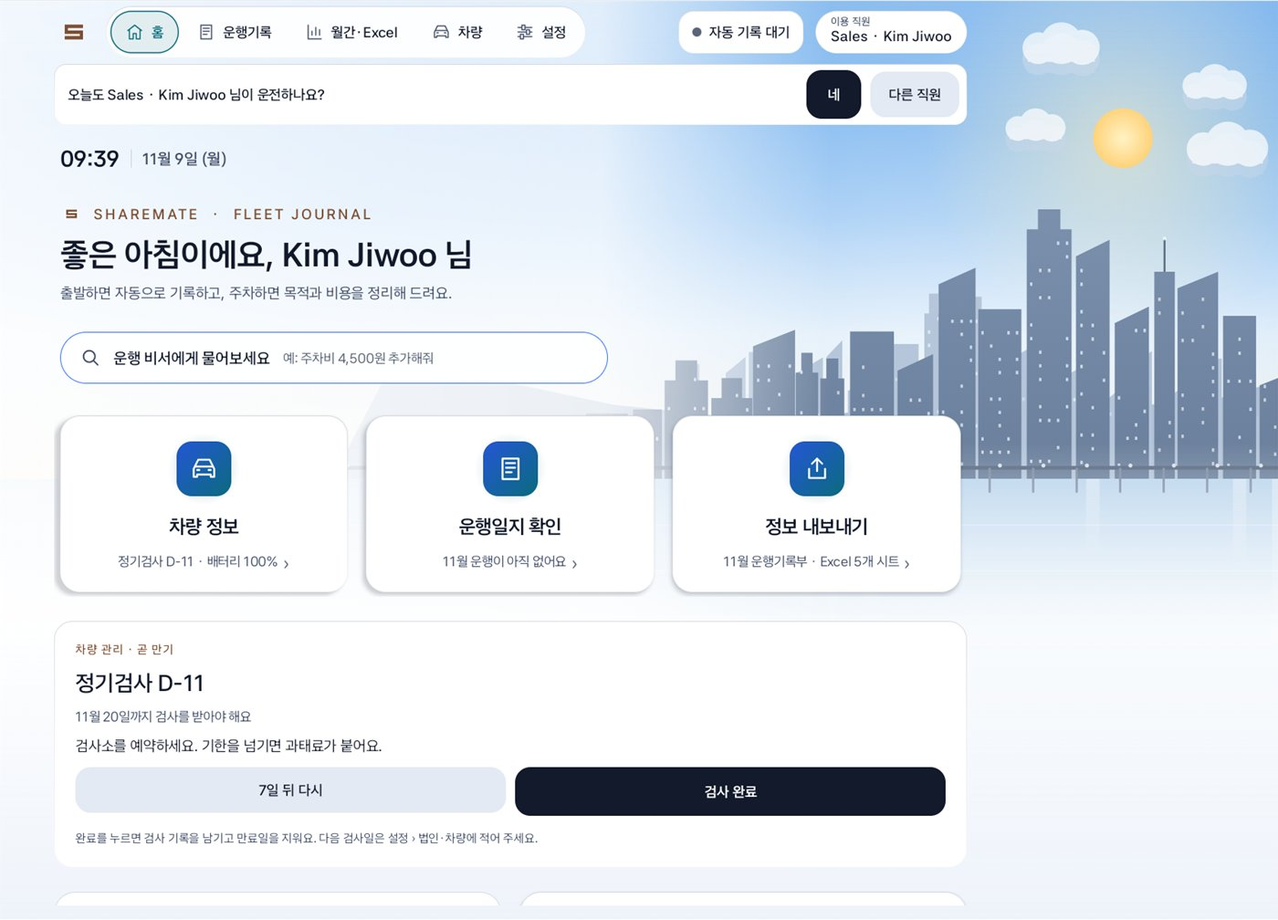
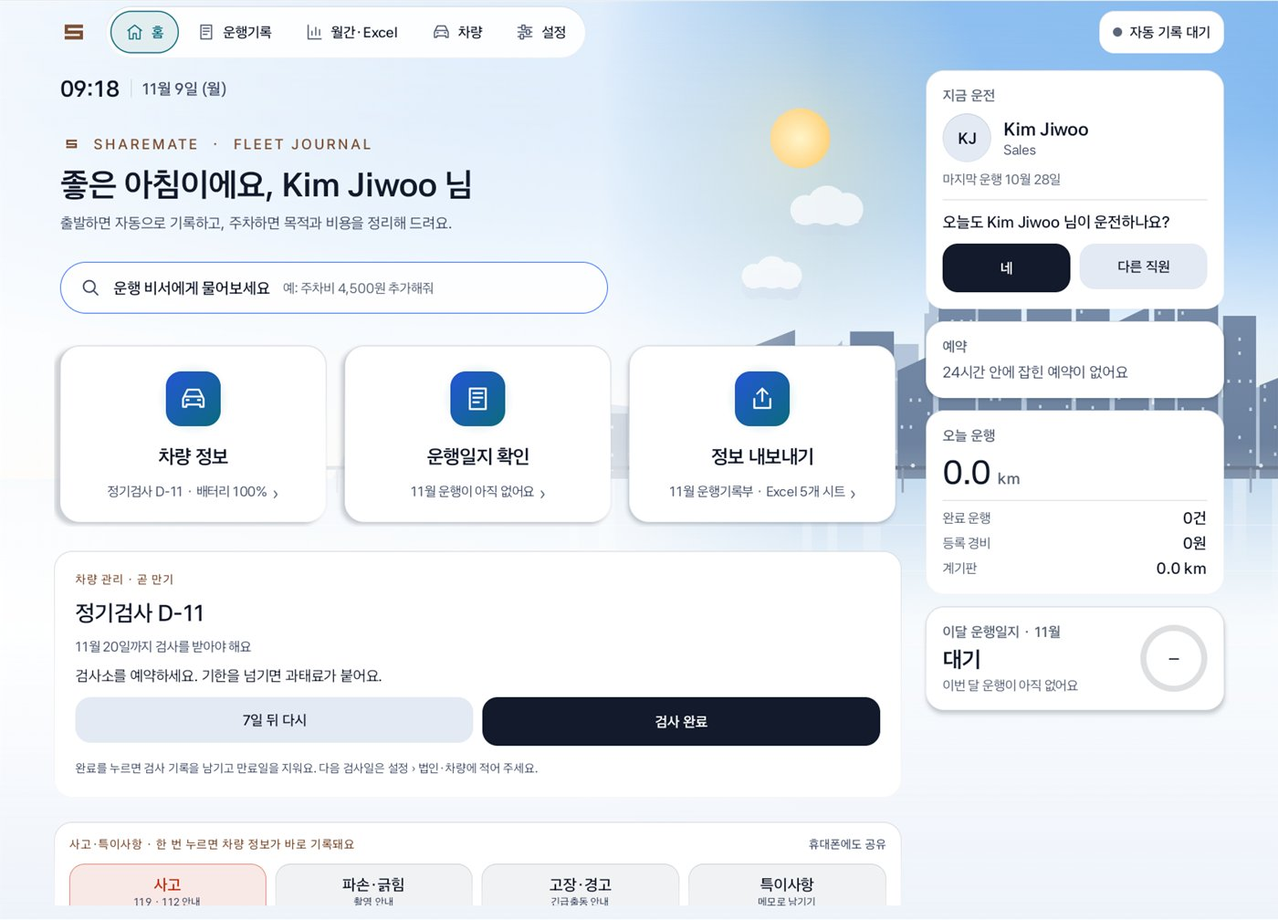
2.11.0: the car uses the whole window with a 지금 column; driver management redone; README re-shot
The car rail now fills the window. From EXPANDED up it splits into the page column and a
392-dp 지금 column (지금 운전 card with today's question, 예약, 오늘 운행, 이달 운행일지) that
stays still while pages change. The sun or moon rests in the sky right of the greeting
above the cards and fades before a card reaches it; there is no orb without the column.
운행기록, 월간·Excel, 차량 and 설정 reflow across the page column (two cards per row in 설정).

Driver management: one avatar (initials) everywhere, the 지금 운전 card, a two-column picker
with one-tap switching and undo, 설정 › 직원 as a list with an editor, deletion only for
people without trips (checked on unfiltered data) with an in-place undo, and a booking now
switches the driver once so a manual pick sticks. The tightest narrow header keeps the
driver's initials instead of a pill of ellipses (driverChipMode).

Version 2.11.0 (versionCode 21; Gleo schema.json matches). 393 unit tests pass, lint 0
errors / 15 warnings. Designed by a three-proposal judge panel, built as two parallel
packages, reviewed from three angles (4 confirmed findings fixed). Checked on the Pleos
emulator: full window day and night, picker pick/undo, 설정 › 직원 edit/delete/undo, the
narrow window, 1.3x font, animator 0.

README: car table now four rows of two with the driver picker and 설정 › 직원, alt texts,
the full-width layout and the 운전하는 직원 bullet; the car demo GIF re-recorded.
CORPORATE_LOGBOOK gains the 2.11.0 section and record; the design spec lines are updated.

diff --git a/app/src/main/java/ai/sharemate/app/LogbookUi.kt b/app/src/main/java/ai/sharemate/app/LogbookUi.kt
@@ -448,7 +448,26 @@ fun LogbookApp(driving: DrivingUiState, requestPermissions: () -> Unit) {
  * ‘지금 운전’ still fits beside them. Narrower, the chip is the text pill of 2.10, 20 dp in: its label ellipsises, then its
  * caption, and the header keeps its one 68-dp row instead of wrapping the caption or squeezing the avatar into an oval.
  */
-internal fun driverChipAvatar(chipMax: Dp, fontScale: Float): Boolean = chipMax >= 74.dp + 66.dp * fontScale.coerceAtLeast(1f)
+internal fun driverChipAvatar(chipMax: Dp, fontScale: Float): Boolean = driverChipMode(chipMax, fontScale) == DriverChipMode.AVATAR_AND_NAME
+
+/** The three ways the header's driver chip draws itself, widest first ([driverChipMode]). */
+internal enum class DriverChipMode { AVATAR_AND_NAME, NAME, AVATAR }
+
+/**
+ * How the header's driver chip draws itself in [chipMax]: the avatar beside ‘지금 운전’ and the name where both fit (74 dp of
+ * avatar and padding plus 66 dp of text at 1×, the text growing with the font); the text pill alone (40 dp of padding plus
+ * the text); and in the tightest header (운행기록 or 월간·Excel in a narrow window, where the assistant button joins the row)
+ * the avatar alone in a 56-dp pill. A pill of ellipses would say nothing; the person's initials still say who is driving,
+ * and the chip keeps its target and its spoken name.
+ */
+internal fun driverChipMode(chipMax: Dp, fontScale: Float): DriverChipMode {
+    val text = 66.dp * fontScale.coerceAtLeast(1f)
+    return when {
+        chipMax >= 74.dp + text -> DriverChipMode.AVATAR_AND_NAME
+        chipMax >= 40.dp + text -> DriverChipMode.NAME
+        else -> DriverChipMode.AVATAR
+    }
+}
 
 /**
  * The header of every page, spanning the rail: the brand mark and the five tabs with their counts at the start; at the rail's
@@ -466,19 +485,21 @@ internal fun driverChipAvatar(chipMax: Dp, fontScale: Float): Boolean = chipMax 
         val interaction = remember { MutableInteractionSource() }
         if (showDriver) Surface(onClick = onDriver, shape = RoundedCornerShape(50), color = Scene.glass, border = Scene.edge, interactionSource = interaction,
             modifier = modifier.heightIn(min = 56.dp).pressable(interaction, .98f).semantics { contentDescription = "지금 운전 ${driver?.label ?: "미선택"}, 바꾸기" }) {
-            // The person's avatar (the one the picker and 설정 › 직원 show) sits 12 dp in, concentric with the pill's round end,
-            // where the header leaves the chip room for it ([driverChipAvatar]). The pill's 56-dp minimum still reaches the row.
+            // The person's avatar (the one the picker and 설정 › 직원 show) sits 12 dp in, concentric with the pill's round end;
+            // the chip keeps what the header leaves it ([driverChipMode]). The pill's 56-dp minimum still reaches the row.
             BoxWithConstraints(propagateMinConstraints = true) {
-                val avatar = driverChipAvatar(maxWidth, LocalDensity.current.fontScale)
-                Row(Modifier.padding(start = if (avatar) 12.dp else 20.dp, end = 20.dp, top = 6.dp, bottom = 6.dp), verticalAlignment = Alignment.CenterVertically,
-                    horizontalArrangement = Arrangement.spacedBy(10.dp)) {
-                    if (avatar) DriverAvatar(driver, 32.dp)
+                val mode = driverChipMode(maxWidth, LocalDensity.current.fontScale)
+                if (mode == DriverChipMode.AVATAR) Box(Modifier.padding(12.dp), contentAlignment = Alignment.Center) { DriverAvatar(driver, 32.dp) }
+                else Row(Modifier.padding(start = if (mode == DriverChipMode.AVATAR_AND_NAME) 12.dp else 20.dp, end = 20.dp, top = 6.dp, bottom = 6.dp),
+                    verticalAlignment = Alignment.CenterVertically, horizontalArrangement = Arrangement.spacedBy(10.dp)) {
+                    if (mode == DriverChipMode.AVATAR_AND_NAME) DriverAvatar(driver, 32.dp)
                     Column {
-                        // One line each: in the tightest header the caption ellipsises too, rather than wrapping and growing the row.
+                        // One line each: in a tight header the caption ellipsises too, rather than wrapping and growing the row. The
+                        // name alone (the department is in the spoken label and in the picker): it is what tells the drivers apart.
                         Text("지금 운전", style = MaterialTheme.typography.labelSmall, color = Scene.textSecondary, maxLines = 1, softWrap = false,
                             overflow = TextOverflow.Ellipsis)
-                        Text(driver?.label ?: "직원 선택", style = MaterialTheme.typography.labelLarge, color = Scene.text, maxLines = 1, overflow = TextOverflow.Ellipsis,
-                            modifier = Modifier.widthIn(max = if (wide) 230.dp else 140.dp))
+                        Text(driver?.let { it.name.ifBlank { it.label } } ?: "직원 선택", style = MaterialTheme.typography.labelLarge, color = Scene.text, maxLines = 1,
+                            overflow = TextOverflow.Ellipsis, modifier = Modifier.widthIn(max = if (wide) 230.dp else 140.dp))
                     }
                 }
             }

diff --git a/app/src/test/java/ai/sharemate/app/LogbookUiTest.kt b/app/src/test/java/ai/sharemate/app/LogbookUiTest.kt
@@ -226,4 +226,14 @@ class LogbookUiTest {
         assertTrue("작은 글꼴은 1배로 셈", driverChipAvatar(140.dp, .85f))
         assertTrue("너비 제한 없음", driverChipAvatar(Dp.Infinity, 1f))
     }
+
+    @Test fun theTightestHeaderKeepsTheDriversInitialsInsteadOfEllipses() {
+        assertEquals(DriverChipMode.AVATAR_AND_NAME, driverChipMode(140.dp, 1f))
+        assertEquals("글자 66 + 여백 40", DriverChipMode.NAME, driverChipMode(106.dp, 1f))
+        assertEquals(DriverChipMode.NAME, driverChipMode(139.dp, 1f))
+        assertEquals("말줄임표만 남을 폭에서는 이니셜", DriverChipMode.AVATAR, driverChipMode(105.dp, 1f))
+        assertEquals("좁은 운행기록 헤더(약 58 dp)", DriverChipMode.AVATAR, driverChipMode(58.dp, 1f))
+        assertEquals("1.3배 글꼴은 글자에 더 필요", DriverChipMode.AVATAR, driverChipMode(120.dp, 1.3f))
+        assertEquals(DriverChipMode.NAME, driverChipMode(126.dp, 1.3f))
+    }
 }

diff --git a/CORPORATE_LOGBOOK.md b/CORPORATE_LOGBOOK.md
@@ -1,3 +1,72 @@
+# SHAREMATE 2.11.0 — 법인차 자동 운행일지
+
+2026-11-09 기준, versionCode 21. 2.11.0은 차량 화면이 창의 폭을 끝까지 쓰고, 운전하는 직원을 한 번에 바꿀 수 있게 한 버전입니다. 2.10은 Pleos 전체 창에서 내용을 1200 dp 열에 두고 오른쪽 408 dp를 하늘로 남겼습니다. 2.11에서는 그 자리에 **지금 열**이 서서 누가 운전하는지, 다음 예약, 오늘 운행, 이달 운행일지를 주차 중 다섯 화면 어디서나 보여 주고, 해와 달은 인사말 오른쪽의 히어로 하늘로 옮겼습니다. 직원 관리는 아바타 하나, 한 번 눌러 바꾸고 실행 취소로 되돌리는 선택 창, 목록과 수정 칸을 나란히 둔 설정 › 직원으로 다시 만들었습니다. 휴대폰 화면과 운행일지 데이터 형식은 2.10.0과 같습니다. 바뀐 설계 기준은 [docs/design/DESIGN_2_10_SPEC.md](docs/design/DESIGN_2_10_SPEC.md)에 ‘(2.11)’로 표시했습니다.
+
+## 2.11 넓은 화면과 지금 열
+
+- **레일:** 차량 화면의 내용 폭 상한을 없앴습니다. 2.10은 EXPANDED와 FULL에서 내용을 1200 dp에서 멈췄고, 2.11에서는 모든 폭 등급에서 머리줄과 페이지가 양옆 여백 사이를 끝까지 씁니다(`carLayout`). 여백(COMPACT 20 · MEDIUM 32 · EXPANDED 48 · FULL 72 dp), 카드와 구간 간격, 인사말의 읽기 폭 720 dp는 그대로입니다. 여백은 이렇게 레이아웃 안에 남깁니다.
+- **페이지 열과 지금 열(`carColumns`):** EXPANDED 이상이고 높이가 600 dp 이상인 창에서 레일을 둘로 나눕니다. 지금 열의 폭은 392 dp에 글꼴 배율(1–1.3배까지)을 곱한 값이고, 페이지 열과는 구간 간격만큼 떨어집니다. 페이지 열의 실효 폭(폭 ÷ 글꼴 배율)이 780 dp 이상일 때만 나눕니다. 페이지 · 간격 · 지금 열은 Pleos 전체 창(1680 dp)에서 1112 · 32 · 392 dp, 1400 dp 창에서 832 · 32 · 392 dp입니다. 1.3배 글꼴의 전체 창은 EXPANDED(레일 1584 dp)가 되어 1046 · 28 · 510 dp입니다. 1배 글꼴의 EXPANDED는 1296 dp부터 나뉩니다. 그보다 좁은 창, MEDIUM과 COMPACT, 높이 600 dp 미만의 창, 1.5배 글꼴의 전체 창(나누면 페이지 1046 dp, 실효 697 dp)에서는 지금 열 없이 페이지가 레일 전체를 씁니다.
+- **지금 열:** 머리줄처럼 페이지 전환 바깥에 있어, 다섯 화면을 오가도 미끄러지지 않고 셸과 함께 나타납니다(차례로 떠오르지 않음). 위에서부터 지금 운전 카드(아래 ‘2.11 운전하는 직원’), 예약, 오늘 운행, 이달 운행일지 타일이 16 dp 간격으로 놓입니다. 열은 따로 스크롤되고 위 가장자리는 페이지처럼 흐려지며, TalkBack은 페이지 다음에 이 열을 읽습니다. 타일은 모서리 24 dp, 안쪽 여백 22 dp에 홈 카드와 같은 유리(낮에는 불투명)를 쓰고, 누를 수 있는 타일에만 낮 그림자와 .98 누름이 붙습니다.
+- **타일:** 예약 타일은 사용 중인 예약이나 24시간 안에 시작할 다음 예약을 한 줄로 보여 줍니다. 사용 중이거나 15분 안에 시작하면 점이 청록, 그 밖에는 브랜드색이고, 예약이 없으면 ‘24시간 안에 잡힌 예약이 없어요’라고 합니다. 누르면 예약 목록이 있는 차량 화면으로 갑니다. 오늘 운행 타일은 오늘 거리(기록 중에는 제자리에서 바뀜)와 완료 운행 · 등록 경비 · 계기판을 세로로 쌓고, 누를 수 없습니다. 이달 운행일지 · 11월 타일은 대기 · 완성 · 마감됨 · 확인 N건 같은 한 단어, 업무 비율 · 거리 · 건수, 자동 분류 · 카드 반영 줄, 88 dp 완성률 링을 두고, 누르면 이달의 월간·Excel을 엽니다. 지금 열이 있으면 홈의 ‘다음 예약’ 줄과 아래 위젯 둘은 페이지에서 빠집니다(`homePlan`의 `widgetsInColumn`).
+- **머리줄:** 레일 전체에 걸치고, 화면이 바뀌어도 나타나거나 사라지지 않습니다. 왼쪽에 표식과 다섯 탭, 레일 끝(지금 열이 있으면 그 위)에 낮은 창의 시계, 기록 상태, 도구가 붙습니다. 지금 운전 칩(2.10의 ‘이용 직원’)은 지금 열이 없을 때만 나오고, TalkBack은 ‘지금 운전 Sales · Kim Jiwoo, 바꾸기’처럼 읽습니다. 칩은 자리가 있으면 32 dp 아바타와 ‘지금 운전’ · 이름을 보여 주고, 좁으면 글자만 보여 줍니다. 가장 좁은 머리줄(좁은 창의 운행기록처럼 운행 비서 버튼이 같은 줄에 들어올 때)에서는 이니셜 아바타만 남습니다(`driverChipMode`). 칩의 글자가 두 줄로 접혀 머리줄을 키우는 일은 없습니다. 지금 열이 없을 때는 오늘의 운전자 질문도 머리줄 아래 한 줄로 나옵니다(40 dp 아바타, 네 · 다른 직원).
+- **셸:** 다섯 화면은 페이지 열 안에서 바뀌고, 지금 열은 그대로 있습니다. 하단 알림 막대는 페이지 열 가운데에 떠서 지금 열을 가리지 않고, 월간·Excel에서는 저장 막대 위로 올라갑니다. 설정의 하위 구간은 셸이 기억합니다. 그래서 ‘설정에서 입력’은 설정 › 정산·세무를, 선택 창의 ‘직원 추가·관리’와 지금 운전 카드의 ‘직원 추가’는 설정 › 직원을 열고, 머리줄의 설정 탭은 마지막 구간으로 돌아갑니다. 주행 중에는 2.10처럼 주행 화면이 창 전체를 씁니다.
+- **운행기록:** 페이지 열의 실효 폭이 900 dp 이상이면 목록과 운행 상세를 나란히 둡니다. 목록 폭은 (페이지 − 간격) × .48로, 전체 창에서 목록 522 · 간격 24 · 상세 566 dp입니다(`logListWidth`, 2.10은 전체 창에서 목록 560 dp). 1.3배 글꼴(실효 805 dp)과 1400 dp 창(832 dp)에서는 목록이 페이지를 채우고 상세는 옆 시트로 열립니다.
+- **월간·Excel:** 마감 카드, Excel 미리보기와 시트 탭, 저장 막대가 페이지 열을 채웁니다(2.10은 760 dp까지). 넓은 창에서는 시트의 열이 더 많이 보이고, 마감 카드의 문장은 읽기 폭을 지킵니다. 검토 화면은 증빙 준비 상태와 비용 참고를 EXPANDED부터 나란히 둡니다.
+- **차량:** 페이지 열의 실효 폭이 1000 dp 이상이면 두 열입니다. 전체 창에서는 차량 카드 666 · 정보 422 dp, 그 아래 카드 2 × 544 dp입니다. 1.3배 글꼴과 1400 dp 창에서는 한 열로 쌓입니다(`vehiclePaneLayout`). 차량 정보의 ‘현재 직원’은 ‘지금 운전’이 되었습니다.
+- **설정:** 하위 탭은 법인·차량 · 직원(2.10의 ‘사용자’) · 정산·세무 · 기록입니다. EXPANDED 이상에서 페이지 열의 실효 폭이 760 dp 이상이면 카드를 두 장씩 놓습니다(전체 창 2 × 544 dp, 1.3배 글꼴에서도 두 장, `settingsCardColumns`). 법인·차량은 기본 정보 옆에 차량 관리 기한, 정산·세무는 정산·세무 기준 옆에 이달 유류비 정산, 기록은 화면 분위기와 기록 방식·개인정보 옆에 자동 완성, 운행 비서, SDK 안내를 둡니다. 두 장일 때 카드 안의 입력 칸은 한 열입니다. 직원은 페이지 전체를 씁니다. 그보다 좁은 창은 2.10처럼 720 dp 폼 열 하나입니다.
+
+## 2.11 해와 달
+
+- **히어로의 빈 하늘:** 차량 홈의 해와 달은 히어로가 비워 둔 하늘에 뜹니다. 인사말 읽기 폭(720 dp)의 오른쪽, 카드 줄 위, 페이지 열 안의 띠로, 인사말과 히어로 끝, 카드 줄에서 24 dp씩 떨어져 있습니다(`heroBand`). 띠는 위치가 아니라 히어로와 카드 줄의 크기로만 계산해, 처음 나타날 때의 떠오름이나 페이지 전환이 띠를 옮기지 않습니다. 2.10의 자리(1200 dp 열 오른쪽 빈 하늘, `freeSkyOrbAt`)는 없앴습니다.
+- **놓이는 자리:** 해와 달은 띠의 가운데와, 원반이 히어로 안개 끝에 닿는 자리 중 더 오른쪽에 놓입니다. 높이는 창 높이의 .15(가장 높은 탑 위)이고, 띠가 그보다 낮게 시작하면 띠를 따릅니다. 원반과 24 dp 여백은 늘 띠 안에 있습니다(`heroOrbAt`). 띠가 원반을 담지 못하면 그리지 않습니다. 페이지 열이 832 dp인 1400 dp 창이 그렇습니다.
+- **카드 밑에 들어가지 않음:** 해와 달은 카드 줄 위에만 있습니다. 홈을 스크롤해 카드가 올라오면, 카드가 원반 아래 12 dp에 닿기 전에 선형으로 옅어져 사라집니다(`heroSkyAlpha`). 그래서 카드 뒤로 비치거나 카드 위에 떠 보이지 않습니다. 스크롤 값은 하늘을 그릴 때만 읽어, 스크롤이 셸을 다시 구성하지 않습니다.
+- **움직이지 않음:** 지금 열이 있으면 페이지 위쪽이 고정되므로 해와 달도 제자리에 있습니다. 다른 화면으로 가면 하늘과 함께 옅어질 뿐 따라 움직이지 않습니다. 다시 잰 띠가 원반을 담지 못하면 마지막 자리에서 220 ms 동안 사라지고(애니메이션 축소에서는 바로), 미끄러지지 않습니다.
+- **구름은 해를 가리지 않음:** 낮 구름 세 개(`HeroClouds`)는 띠의 왼쪽 위에서 탑 높이 단위로 잰 자리에 고정되어, 띠가 커지면 다음 구름이 드러날 뿐 있던 구름은 움직이지 않습니다. 띠 안에 온전히 들고, 히어로 안개가 끝나기 120 dp 전부터 오른쪽에 있고, 해의 원반에서 12 dp보다 멀리 떨어진 구름만 그립니다(`visibleDayClouds`). 전체 창에서는 해 아래에 두 개가 보입니다. 구름도 해와 함께 스크롤로 옅어지고, 해가 없으면 구름도 없습니다.
+- **지금 열이 없으면 해와 달도 없음:** 해와 달은 지금 열이 있을 때만 그립니다. 그때만 페이지 위쪽이 고정되기 때문입니다. 좁은 창, 높이 600 dp 미만의 창, 큰 글꼴로 열이 빠진 창에서는 해와 달 없이 하늘빛으로 낮과 밤을 보여 줍니다. 휴대폰의 해와 달은 2.10 그대로입니다.
+- **밤의 왼쪽 가림막:** 밤에 인사말 뒤를 어둡게 하는 가림막이 낮의 흰 안개와 같은 곳에서 끝납니다. 왼쪽 끝 .92, 히어로 열 끝(여백 + 720 dp) .62, 그 300 dp 뒤 0입니다(2.10은 창 폭의 .38에서 .62, .74에서 0). 인사말 뒤는 2.10보다 옅어지지 않고, 띠에 뜬 달은 거의 가리지 않습니다(전체 창의 달 자리에서 약 .07, 2.10 곡선으로는 약 .19). 낮 안개는 그대로입니다.
+
+## 2.11 운전하는 직원
+
+- **말:** 사람은 ‘직원’, 역할은 ‘운전’과 ‘운전자’입니다. ‘사용자’는 운행기록부 ④ 사용자 칸과 그 칸을 가리키는 곳(운행 상세, 점검 항목, 월 마감 단계, Excel)에만 남깁니다. 머리줄 칩과 차량 정보는 ‘지금 운전’, 설정의 하위 탭은 ‘직원’, 홈의 목적 카드와 사고 카드는 ‘운전자’라고 씁니다.
+- **아바타:** 한 사람은 어디서나 같은 아바타 하나로 보입니다. 레일 색 원 안의 굵은 이니셜입니다. 한글 이름은 마지막 두 글자(김서연 → 서연, 남궁민수 → 민수), 그 밖의 이름은 앞 두 단어의 머리글자(Kim Jiwoo → KJ), 빈 이름은 –입니다(`driverMonogram`). 글자가 원에 넘치면 작게 줄입니다. 장식이라 TalkBack은 건너뛰고, 둘러싼 카드나 줄이 이름을 읽어 줍니다. 크기는 지금 운전 카드 64, 선택 창 56, 설정 › 직원 목록 48(수정 칸 56), 좁은 창의 질문 줄 40, 머리줄 칩 32 dp입니다.
+- **지금 운전 카드:** 지금 열 맨 위에서 누가 운전하는지 보여 줍니다. 평소에는 ‘지금 운전’, 아바타 64 · 이름 · 부서 · [바꾸기], 그리고 ‘오늘 확인함 · 마지막 운행 어제 18:47’ 같은 상태 줄입니다. 오늘의 질문이 필요하면 구분선 아래 ‘오늘도 Kim Jiwoo 님이 운전하나요?’와 반씩 나눈 [네] · [다른 직원]이 나오고, 바꾸기는 비킵니다. 질문은 직원이 2명 이상이고, 출발 전 운전자 확인이 켜져 있고, 운행을 기록 중이 아니고, 오늘 아직 답하지 않았고, 그 직원이 8시간 안에 운전하지 않았을 때 나옵니다. 네는 오늘을 답한 날로 남기고, 다른 직원은 오늘을 남긴 뒤 선택 창을 엽니다. 답한 질문은 200 ms에 접히고(애니메이션 축소에서는 바로) 상태 줄에 ‘오늘 확인함’이 붙습니다. 좁은 창의 질문 줄과 답한 날을 함께 씁니다. 고른 사람이 없으면 ‘누가 운전하나요?’와 [운전자 선택], 직원이 없으면 ‘등록된 직원이 없어요’와 [직원 추가](설정 › 직원)입니다. TalkBack은 사람과 상태를 ‘지금 운전, Kim Jiwoo, Sales, 오늘 확인함, 마지막 운행 어제 18:47’ 한 번으로 읽습니다.
+- **선택 창:** 바꾸기, 다른 직원, 좁은 창의 머리줄 칩에서 열면 지금 운전하는 직원을 고르고, 운행 상세·홈 목적 카드의 변경이나 점검 목록의 ‘사용자 지정’에서 열면 그 운행의 운전자를 고릅니다. 제목은 ‘지금 운전하는 직원’(‘새 운행부터 적용돼요.’, 기록 중에는 ‘새 운행과 기록 중인 운행에 바로 반영돼요.’)이나 ‘이 운행을 운전한 직원’(그 운행의 날짜·시각·거리와 ‘운행기록부 ④ 사용자 칸이 바뀌고 수정 이력에 남아요.’)입니다. 직원 카드는 두 열(1.3배 글꼴이나 폭 700 dp 남짓보다 좁은 창에서는 한 열)이고, 아바타 56, 이름, 부서, 상태 줄을 담습니다. 상태 줄은 ‘예약 사용 중 · 17:00까지’, ‘곧 예약 · 14:00부터’, ‘다음 예약 · 내일 09:00’, 마지막 운행, ‘운행 기록 없음’ 가운데 앞에 오는 하나입니다. 순서는 이름의 한국어 정렬, 그다음 부서이고, 고른 사람이 맨 위로 올라가지 않습니다. 고른 카드는 선택 채움, 1.5 dp 테두리, 청록 이름과 ✓로 표시합니다. 낮에는 나머지 카드를 흰 유리로 두어 상태 줄이 AA 대비를 넘습니다. 한 번 누르면 바로 정해지고 창이 닫히며, 같은 사람을 누르면 닫히기만 합니다. 직원이 아홉 명 이상이면 ‘이름이나 부서로 찾기’ 칸이 나옵니다. 목록은 창 높이의 60 %까지, 제목·찾기 칸·안내·버튼이 쓰고 남은 높이에서 스크롤하고, 고른 카드가 보이게 열립니다. 아래에는 [직원 추가·관리](설정 › 직원)와 [닫기]가 있습니다. 창은 페이드로만 나타나고 사라집니다(160 / 120 ms, 애니메이션 축소에서는 움직임 없음).
+- **설정 › 직원:** 카드 폭이 960 dp 이상이면 목록 옆에, 좁으면 목록 아래에 수정 칸이 있습니다. 목록은 ‘등록된 직원 N명’과 ‘최대 50명’, 72 dp 줄(아바타 48, 이름, ‘Sales · 운행 9건 · 마지막 운행 10월 28일’, 지금 운전하는 사람의 ‘지금 운전’ 칩)입니다. 줄을 누르면 그 사람이 수정 칸에 열립니다(선택 채움과 테두리, TalkBack ‘수정 중’). 목록 아래에는 [새 직원](50명이면 꺼지고 이유를 보여 줌)과, 설정 › 기록에서 옮겨 온 ‘출발 전 운전자 확인’ 스위치가 있습니다. 새 직원은 부서(예: 영업1팀)와 성명(예: 김서연)을 30자까지 받고, 성명이 있으면 [직원 추가]가 켜집니다. 같은 부서에 같은 이름이 있으면 경고만 하고 막지 않습니다. 등록된 직원의 수정 칸에는 [지금 운전하는 직원으로](이미 그렇다면 ‘지금 운전하는 직원이에요’), 부서·성명 칸과 ‘고친 부서와 성명은 이 직원의 지난 운행 ④ 사용자 칸에도 그대로 들어가요.’ 안내, [수정 저장] · [취소]가 있습니다.
+- **삭제와 실행 취소:** [직원 삭제]는 시연과 실제 기록을 합쳐 운행이 한 건도 없는 사람(기록 중인 운행 포함)에게만 보입니다. 저장소가 삭제 전에 확인하는 것과 같은, 거르지 않은 데이터로 판단하므로 거절될 삭제는 내놓지 않습니다(`driverRemovable`). 운행이 있으면 ‘운행 기록이 있어 삭제할 수 없어요 · 부서와 성명은 고칠 수 있어요’라고 합니다. 삭제 뒤에는 ‘Lee Minho 님을 삭제했어요 · 실행 취소’가 뜨고, 실행 취소는 그 사람을 같은 id로 목록의 같은 자리에 되돌립니다. 지금 운전하던 사람이고 그사이 아무도 고르지 않았다면 다시 지금 운전하는 직원이 됩니다(`restoreDriver`).
+- **예약은 한 번만 바꿈:** 예약 시작 15분 전부터 주차 중이면 예약한 직원이 지금 운전하는 직원이 됩니다. 2.10까지는 주차 중 신호가 올 때마다 다시 바꿔, 직접 고른 운전자가 몇 초 만에 되돌려졌습니다. 2.11에서는 예약 하나에 한 번만 바꿉니다(`bookingDriverSwitch`). 그 예약 동안 직접 고른 운전자는 그대로 남고, 다음 예약은 다시 한 번 바꿉니다. 운행을 기록 중이거나, 예약한 직원이 이미 지금 운전하는 직원이거나, 등록되지 않은 직원이면 바꾸지 않습니다. 적용한 예약은 메모리에만 기억해, 앱을 다시 시작하면 진행 중인 예약이 한 번 더 적용됩니다. 지금 운전하는 직원이 예약한 직원과 다르면 예약 줄의 ‘운전자를 예약한 직원으로 맞췄어요’도 붙지 않습니다.
+- **문구:** 선택 창은 ‘운전자를 Lee Minho 님으로 바꿨어요 · 실행 취소’, ‘이 운행의 운전자를 Lee Minho 님으로 바꿨어요 · 실행 취소’, 비어 있던 운행에는 ‘이 운행에 Lee Minho 님을 지정했어요’, 처음 고를 때는 ‘지금 운전하는 직원을 Lee Minho 님으로 정했어요’라고 알립니다. 수정 칸의 [지금 운전하는 직원으로]도 같은 문구와 실행 취소를 씁니다. 설정 › 직원은 ‘Lee Minho 님을 추가했어요 · 운전자로 선택’(지금 운전하는 직원이 없어 새 사람이 바로 그 자리에 들어가면 ‘Lee Minho 님을 추가하고 지금 운전하는 직원으로 정했어요’), ‘Kim Jiwoo 님 정보를 고쳤어요 · 실행 취소’라고 알립니다. 선택 창은 셸의 알림 막대 공급자(`LocalFollowUp`) 안으로 옮겨, 그 실행 취소가 셸의 막대에 뜹니다. 저장소의 거절 문구도 ‘직원을 다시 선택해 주세요.’, ‘직원은 50명까지 등록할 수 있어요.’, ‘운행 기록이 있는 직원은 삭제할 수 없어요. 부서와 성명은 고칠 수 있어요.’로 바꿨습니다.
+- **주행 중에는 없음:** 운전자를 바꾸는 데 글자 입력이 필요 없고, 누르는 곳은 56–88 dp입니다. 주행이 시작되면 선택 창은 닫히고, 지금 열과 설정 › 직원은 주행 화면 아래에 구성되지 않습니다.
+
+### 2.11.0 검증 기록
+
+2026-11-09, `gradlew testDebugUnitTest lintDebug assembleDebug` 통과: 단위 테스트 393건 전부 성공, lint 오류 0 · 경고 15(의존성·버전 안내, 2.10과 같은 항목). 2.10의 373건에 20건이 더해졌습니다. 화면 배치와 하늘 5건(SceneTest 레일 나누기 · 해가 카드보다 먼저 사라짐, HomeDashboardTest 히어로의 빈 하늘, LogbookUiTest 운행기록 두 칸 · 설정 카드 두 장), 새 DriverRosterTest 13건(이니셜, 질문 문구, 마지막 운행 표기, 상태 줄, 목록 순서와 예약 상태, 설정 › 직원의 날짜와 선택 창의 운행 줄, 선택 창 열 수, 상태 줄의 AA 대비, 삭제 조건, 같은 이름 경고, 알림 문구, 되돌린 직원의 자리, 예약 한 번 전환), 머리줄 칩 2건(LogbookUiTest)입니다. 해·구름 위치와 밤 가림막을 보는 SceneTest, 차량 화면의 VehiclePaneTest는 새 규칙에 맞게 고쳤습니다.
+
+설계와 구현: 한눈에 보는 대시보드, 장면과의 균형, 운전자 중심이라는 세 가지 설계안을 따로 만들고, 심사자가 채점해 하나의 사양으로 합쳤습니다(대시보드 안이 가장 높은 점수). 구현은 두 묶음으로 나눠 나란히 진행했습니다. 하나는 넓은 레일 · 지금 열 · 하늘 · 다른 화면, 다른 하나는 직원 관리입니다. 두 묶음을 병합한 뒤 지금 열의 운전자 자리에 지금 운전 카드를 넣고, 머리줄 칩에 아바타를 붙여 통합했습니다.
+
+검토와 수정: 세 검토자(실행 동작, 화면·문구·접근성, 테스트)가 16건을 지적했고, 반박 검증에서 확인된 4건을 고쳤습니다.
+
+- **선택 창의 아래 버튼:** 낮은 창에서도 직원 추가·관리와 닫기가 잘리지 않습니다. 목록은 제목·찾기 칸·안내·버튼이 쓰고 남은 높이만 씁니다.
+- **머리줄 칩:** 칩은 ‘지금 운전’ 글자가 두 줄로 접히기 전에 아바타부터 뺍니다. 그래서 지금 열이 없는 EXPANDED 창(화면 밀도 240의 좁은 창 등)에서도 머리줄이 68 dp 한 줄을 지킵니다.
+- **선택 창 카드의 대비:** 낮에 고르지 않은 카드를 흰 유리로 바꿔, 상태 줄이 WCAG AA를 넘습니다(4.47:1 → 5.8:1).
+- **문구:** 홈의 목적 카드와 사고 카드가 ‘사용자’ 대신 ‘운전자’라고 씁니다.
+
+에뮬레이터에서 하나를 더 찾아 고쳤습니다. 가장 좁은 머리줄에서 운전자 칩이 말줄임표만 남기던 것을 그 사람의 이니셜 아바타로 바꿨습니다(`driverChipMode`, LogbookUiTest `theTightestHeaderKeepsTheDriversInitialsInsteadOfEllipses`).
+
+에뮬레이터에서 확인(Pleos 차량 사용자 10, Asia/Seoul. 아침 화면은 에뮬레이터 시간대를 잠시 바꿔 확인):
+
+- **전체 창, 낮(09:18)과 밤(22:20):** 레일이 양옆 여백 사이 창 전체에 걸칩니다. 다섯 화면은 페이지 열에서 바뀌고, 오른쪽 392 dp 지금 열(오늘의 질문이 있는 지금 운전 카드, 예약, 오늘 운행, 링이 있는 이달 운행일지 · 11월)은 화면이 바뀌어도 제자리에 있습니다. 해와 달은 인사말 오른쪽, 카드 위 하늘에 뜨고, 낮에는 구름이 해 가까이 있지만 해를 가리지 않습니다.
+- **선택 창(다른 직원과 바꾸기에서 열기):** 이니셜 아바타·부서·마지막 운행이 담긴 카드가 두 열로 놓이고, 고른 카드에 채움·테두리·✓가 있습니다. 한 번 누르면 바뀌고 ‘운전자를 Lee Minho 님으로 바꿨어요 · 실행 취소’가 뜨며, 실행 취소로 되돌아옵니다. 아래에 직원 추가·관리와 닫기가 있고, 창은 페이드로만 나타나고 사라집니다.
+- **설정 › 직원:** 아바타·운행 건수·마지막 운행과 ‘지금 운전’ 칩이 있는 목록입니다. 줄을 누르면 목록 옆에 수정 칸이 열립니다(지금 운전하는 직원으로 또는 지금 운전하는 직원이에요, 지난 운행의 ④ 칸도 바뀐다는 안내가 붙은 부서·성명 칸, 수정 저장 · 취소). 직원 삭제는 운행이 없는 사람에게만 보이고, 운행이 있으면 ‘운행 기록이 있어 삭제할 수 없어요 · 부서와 성명은 고칠 수 있어요’가 나옵니다. Lee Minho를 삭제하자 ‘Lee Minho 님을 삭제했어요 · 실행 취소’가 떴고, 실행 취소로 같은 자리에 돌아왔습니다. 출발 전 운전자 확인 스위치가 이곳에 있습니다.
+- **설정:** 한 줄에 카드가 두 장입니다(법인·차량: 기본 정보 옆에 차량 관리 기한, 기록: 화면 분위기와 기록 방식·개인정보 옆에 자동 완성, 운행 비서, SDK 안내).
+- **운행기록 · 월간·Excel · 차량:** 운행기록은 페이지 열 안에 목록과 운행 상세가 나란하고, 그 옆에 지금 열이 있습니다. 월간·Excel은 마감 카드와 Excel 미리보기가 페이지 열을 채워 시트의 열이 더 많이 보입니다. 차량은 두 열입니다.
+- **좁은 창(화면 밀도 240):** 지금 열이 없고, 머리줄의 운전자 칩과 아바타가 있는 질문 줄이 돌아옵니다. 운행기록에서는 칩에 이니셜(KJ)만 보입니다.
+- **글꼴 1.3배(전체 창):** 지금 열이 510 dp로 넓어지고, 홈 카드는 2 + 1로 놓입니다.
+- **애니메이션 축소(animator 0):** 선택 창이 움직임 없이 바로 열리고, 월간·Excel의 기간 이동도 바로 바뀝니다.
+
+README의 차량 스크린숏(홈 낮·밤, 운행기록, 월간·Excel, 차량, 설정 › 기록)을 이 빌드에서 다시 찍고, 운전자 선택 창과 설정 › 직원 두 장을 더했습니다. 차량 시연 GIF는 창 전체를 담아 다시 녹화했습니다(밤 홈 → 오늘의 질문에 네 → 바꾸기 → Lee Minho 선택 → 실행 취소 → 월간·Excel에서 2026년 10월 → 설정 › 기록에서 낮 → 낮 홈 → 밤 → 밤 홈). 휴대폰 스크린숏은 그대로입니다.
+
+확인하지 못한 것: 실차 화면, 높이 600 dp 미만의 낮은 창, 새 부분의 TalkBack, 애니메이션 축소에서 질문 줄이 접히는 모습은 확인하지 않았습니다. 다른 직원의 예약이 운전자를 한 번만 바꾸고 그 뒤 직접 고른 운전자가 남는 흐름도 에뮬레이터에서는 확인하지 않았고, 단위 테스트(DriverRosterTest `aBookingSwitchesTheDriverOnceAndAManualPickSticks`)로만 확인했습니다.
+
 # SHAREMATE 2.10.0 — 법인차 자동 운행일지
 
 2026-11-09 기준, versionCode 20. 2.10.0은 같은 구성을 **세 가지 빛**으로 보여 주는 버전입니다. 낮에는 밝은 화면, 해 질 무렵과 밤에는 2.8의 남색 야경을 쓰고, 화면은 가득 채우지 않고 여백을 두며, 누르고 넘기고 바뀌는 모든 순간에 짧은 움직임을 붙였습니다. 창의 비율이 바뀌어도 같은 규칙으로 다시 배치됩니다. 설계 기준은 [docs/design/DESIGN_2_10_SPEC.md](docs/design/DESIGN_2_10_SPEC.md)에 있습니다(세 가지 관점의 제안을 세 심사자가 채점해 하나로 합친 사양).
@@ -16,7 +85,7 @@
 
 ## 2.10 여백과 배치
 
-- **폭 등급:** 차량 COMPACT(760 dp 미만) · MEDIUM · EXPANDED · FULL(1400 dp 이상, Pleos 전체 창). FULL에서는 양옆 여백 72 dp, 내용 폭 최대 1200 dp를 왼쪽에 붙이고 오른쪽 408 dp는 하늘로 남깁니다. 휴대폰은 COMPACT(600 미만) · MEDIUM(가로) · EXPANDED(태블릿)에서 내용을 가운데 두고 600 / 760 dp로 제한합니다. 높이도 SHORT(600 미만) · MEDIUM · TALL로 나눠 낮은 창에서는 히어로를 줄이고 시계를 머리줄로 올립니다. 글꼴 배율 1.3에서는 폭을 배율로 나눠 등급을 정하므로 큰 글꼴이 좁은 배치를 부르지 않습니다(`Layout.kt`).
+- **폭 등급:** 차량 COMPACT(760 dp 미만) · MEDIUM · EXPANDED · FULL(1400 dp 이상, Pleos 전체 창). FULL에서는 양옆 여백 72 dp, 내용 폭 최대 1200 dp를 왼쪽에 붙이고 오른쪽 408 dp는 하늘로 남깁니다. 휴대폰은 COMPACT(600 미만) · MEDIUM(가로) · EXPANDED(태블릿)에서 내용을 가운데 두고 600 / 760 dp로 제한합니다. 높이도 SHORT(600 미만) · MEDIUM · TALL로 나눠 낮은 창에서는 히어로를 줄이고 시계를 머리줄로 올립니다. 글꼴 배율 1.3에서는 폭을 배율로 나눠 등급을 정하므로 큰 글꼴이 좁은 배치를 부르지 않습니다(`Layout.kt`). 차량의 1200 dp 열과 오른쪽 하늘은 2.11에서 지금 열로 바뀌었습니다.
 - **차량 홈:** 인사말 열 720 dp, 세 버튼이 1200 dp 열 안에 24 dp 간격으로, 위젯 둘이 그 아래. 가득 채우지 않습니다. 1.3배 글꼴에서는 버튼이 2 + 1로 접힙니다.
 - **다른 화면:** 운행기록(목록 560 + 상세), 월간·Excel(마감 카드 최대 760), 차량(차량 카드 720 + 정보 열), 설정(폼 최대 720)도 같은 여백과 최대 폭을 따르고, 좁거나 낮은 창에서는 한 열로 접힙니다. 좁은 차량 창에서는 머리줄이 두 줄(로고·탭 / 상태·시계·직원)이 됩니다. 월간·Excel은 한 번에 스크롤되고, Excel 미리보기는 받은 높이에 들어가는 행 수로 페이지를 나눕니다(`previewRowsPerPage`). 휴대폰에서 Excel 시트 탭 다섯 개가 한 줄에 넘치면 폭을 나눠 씁니다.
 - **휴대폰:** 홈 카드 2×2, 가로 모드에서는 왼쪽 80 dp 유리 레일 탭과 인사말 왼쪽 · 카드 오른쪽, 태블릿에서는 카드 넷을 한 줄에, 1.3배 글꼴에서는 한 줄에 하나. 예약·운행·경비·현황과 시트도 같은 간격 체계를 쓰고 600 dp 이상에서는 두 열이나 폭 제한으로 늘어납니다.
@@ -65,7 +134,7 @@
 
 - **월간·Excel 기간 이동:** 이번 달과 올해 두 가지뿐이던 기간을 운행기록과 같은 ‹ 2026년 10월 › 단추로 옮깁니다. 월간·연간을 고르고 달이나 해를 넘기면 마감 카드, 운행 현황·경비·정산·Excel·검토 화면, 기간 줄과 모든 Excel 저장이 같은 기간을 따릅니다. 처음 열 때는 홈 카드·배너·배지와 같은 달(지난달이 열려 있으면 지난달)로 열리고, 아직 오지 않은 달이나 해로는 넘어가지 않습니다. 마감된 달도 마감 해제와 다시 저장이 되고, 1월에는 연간에서 ‹ 한 번으로 지난해 전체 운행기록부를 봅니다. 홈의 마감 카드 ③, 마감 배너, 정보 내보내기, 이달 위젯은 각자 가리키는 달로 엽니다(`goReport`).
 - **빈 기간의 문구:** 운행이 없는 지난 달은 ‘8월 운행 기록이 없어요’와 ‘운행이 없는 달은 마감하지 않아도 돼요’로 말합니다. 검토는 ‘점검할 운행이 없어요’, 비용 참고 카드는 연간 비용을 다시 묻지 않고 ‘2025년 운행 기록이 없어 업무사용비율을 계산할 수 없어요’라고 합니다.
-- **해와 달의 자리:** 차량 홈의 해와 달은 내용 열 오른쪽의 빈 하늘(전체 창에서 408 dp) 가운데, 가장 높은 탑보다 위에 뜹니다. 카드가 스크롤로 지나가도 가리지 않고, 비워 둔 오른쪽에 초점이 하나 생깁니다. 빈 하늘이 없는 좁은 창에서는 해와 달을 그리지 않고 하늘빛으로만 낮과 밤을 보여 줍니다(`freeSkyOrbAt`). 낮 구름은 해의 원반에서 12 dp 이상 떨어진 것만 그려, 구름이 해를 가리지 않습니다.
+- **해와 달의 자리:** 차량 홈의 해와 달은 내용 열 오른쪽의 빈 하늘(전체 창에서 408 dp) 가운데, 가장 높은 탑보다 위에 뜹니다. 카드가 스크롤로 지나가도 가리지 않고, 비워 둔 오른쪽에 초점이 하나 생깁니다. 빈 하늘이 없는 좁은 창에서는 해와 달을 그리지 않고 하늘빛으로만 낮과 밤을 보여 줍니다(`freeSkyOrbAt`). 낮 구름은 해의 원반에서 12 dp 이상 떨어진 것만 그려, 구름이 해를 가리지 않습니다. 이 자리는 2.11에서 인사말 오른쪽의 히어로 하늘로 바뀌었습니다.
 - **스크롤 가장자리:** 차량의 홈, 운행기록 목록, 월간·Excel, 차량, 설정이 스크롤되면 위쪽 32 dp에서 내용이 머리줄 아래로 서서히 사라집니다. 띠는 위로 갈수록 빨리 투명해져 카드 테두리 같은 밝은 선이 남지 않고, 멈춘 화면에는 아무 효과가 없습니다(`fadingTopEdge`).
 
 검증: `gradlew testDebugUnitTest lintDebug assembleDebug` 통과. 단위 테스트 373건 전부 성공(기간 범위·이동·안내 문구·마감 카드·처음 여는 달·파일 이름·빈 기간 문구·빈 하늘 위치·스크롤 띠 테스트 추가), lint 오류 0 · 경고 15. 설계는 세 가지 관점의 안을 심사해 합친 사양으로 정했고, 구현 뒤 세 갈래 검토에서 확인된 4건(비용 카드가 이미 입력한 비용을 다시 묻던 문제, 페이지가 사라지는 동안 기간 상태 저장이 끊기던 문제, 빈틈이 있던 테스트 두 곳)을 고쳤습니다. 마지막 독립 검토에서 확인된 2건도 고쳤습니다. 새 자리의 해 위로 낮 구름 하나가 겹치던 문제와, 스크롤하는 동안 열 가장자리에서 위젯의 낮 그림자가 잘리던 문제입니다. 흐림 띠의 층은 양옆으로 12 dp를 더 잡습니다. 차량 에뮬레이터에서 11월 → 10월(마감됨 · 9건 · Excel 미리보기) → 연간 2026 → 2025, 2025년 검토와 비용 카드, 낮·밤 홈의 해와 달 위치, 좁은 창(화면 밀도 240)에서 해가 빠지는 것, 스크롤 가장자리를 확인했습니다. README의 차량 홈 낮·밤과 월간·Excel 스크린숏, 차량 시연 GIF를 다시 찍었습니다.

diff --git a/docs/design/DESIGN_2_10_SPEC.md b/docs/design/DESIGN_2_10_SPEC.md
@@ -38,11 +38,11 @@ Night accents are never day text (#4CE3F0 1.39, #FFB45C 1.58, #E4BFA6 1.53 vs bg
 
 **Day artwork (`DayPaint`, same `skylineScene()` geometry).**
 - Sky to the horizon: 0 → #4F9BE8, .45 → #8FC1F2, .70 → #D7E9F8, 1.0 → #F3EEE4 (warm haze). Horizon glow → white @ .60 → 0 at (w·.76, horizon), r = w·.52. Stars 0.
-- Sun at `orbAt` — car: the middle of the free sky right of the 1200-dp column at .15 of the height (`freeSkyOrbAt`; left out on a window without free sky, and the day clouds give way to it); phone (.86, .235) as built: disc r = ht·.045, radial #FFF3C4 → #FFD27A rim; halo #FFF1C2 @ .55 → 0, r = ht·.30; no rays, no `orbShade`.
-- Clouds: four groups (built three-oval shape) at x .50–.95, y .06–.20, white @ .70 with an underside copy #C9D8E8 @ .45 offset +.012 h; static; never under the hero column or the sun.
+- Sun at `orbAt` — car (2.11): in the hero band, the sky the hero leaves free right of the 720 reading measure and above the card row, inside the page column, 24 dp clear of the greeting, the hero's end and the cards (`heroBand`, built from sizes so neither the entrance lift nor the page slide moves it); x = the band's middle or the haze end less the disc, whichever is further right, y = .15 of the height or lower where the band starts lower, the disc + 24 dp always inside the band (`heroOrbAt`, ≈ (1053, 181) on the full window). Drawn only while the 지금 column stands, which fixes the page top, and only where the band holds the disc (not on a 1400-dp window, not without the column: there the sky's light alone tells day from night); it fades linearly as the cards scroll up and is gone before they reach it (`heroSkyAlpha`), and a re-measured band that no longer holds it fades it out in place over 220 ms (a snap under reduced motion), never sliding; phone (.86, .235) as built: disc r = ht·.045, radial #FFF3C4 → #FFD27A rim; halo #FFF1C2 @ .55 → 0, r = ht·.30; no rays, no `orbShade`.
+- Clouds (2.11): three groups (built three-oval shape, `HeroClouds`) placed by offset from the hero band's top-left in tower heights, so a growing band reveals the next one and never moves one; each drawn only when wholly inside the band, starting right of the haze end less 120 dp, and more than the disc + 12 dp from the sun (`visibleDayClouds`): two on the full window, below the sun; white @ .70 with an underside copy #C9D8E8 @ .45 offset +.012 h; static; they fade with the sun as the cards come up; no sun, no clouds; the phone draws none.
 - Ridge #AEC1D6; far towers #B5C6DA, windows white @ .55 / #E6EEF7 @ .50; near towers vertical #7B90AC → #6A7F9B (2.2:1 vs the .45 sky stop, so the city stays present), windows #DCEAF7 @ .80 / white @ .60, bloom off; antennas #5B6B82, white @ .80 tips, no red beacons.
 - Water 0 → #B9D4EC, .40 → #D5E6F4, 1 → bg; reflections white @ .35; ripples white @ .30. Bridge deck #5B6B82 (4.69 vs horizon), posts #7F8EA3, lamps #D8E2EE, no lamp reflection.
-- Scrims (`HomeBackdrop`): car hero haze = horizontal white .90 at x = 0 → .76 at the hero column's right edge → 0 at +300 dp; phone home: vertical white .88 → .76 at the greeting's bottom → 0 at +120 dp; phone sign-in (`leftScrim = false` today): add `scrimTop` white .84 → 0 over the top 55 % (#44506A on raw sky is 2.76). Bottom scrim as built. Night scrims unchanged.
+- Scrims (`HomeBackdrop`): car hero haze = horizontal white .90 at x = 0 → .76 at the hero column's right edge → 0 at +300 dp; phone home: vertical white .88 → .76 at the greeting's bottom → 0 at +120 dp; phone sign-in (`leftScrim = false` today): add `scrimTop` white .84 → 0 over the top 55 % (#44506A on raw sky is 2.76). Bottom scrim as built. Night (2.11): the car's lead scrim .92 at x = 0 → .62 at the hero column's right edge → 0 at +300 dp, ending where the day haze does (was .38 → .62, .74 → 0 of the width), so it only grows stronger behind the greeting and dims the moon in the hero band ≈ .07 instead of ≈ .19; the other night scrims unchanged.
 
 **Crossfade rule: fade-through.** Foreground tokens are never lerped — lerped text on lerped bg bottoms out at 1.16, and no single t keeps both polarities ≥ 4.5 on glass and bg together. 800 ms auto / 480 ms on an override tap: content alpha 1 → 0 (0–200, FastOutLinearIn) → `LocalScene`, Material scheme and `PleosColors` swap once at 200 ms → sky `Crossfade(phase)` 200–800 (Linear) while the sun rises 8 % of ht into place, the moon sinks and stars fade in the first 40 % → content alpha 0 → 1 (560–800, LinearOutSlowIn). Reduced motion: instant swap. Deferred until 3 s without touch, no field focused, no sheet open, no page swap running; never while driving.
 
@@ -52,19 +52,19 @@ Class = `widthDp ÷ max(1, fontScale)` (1680 at 1.3× behaves as EXPANDED, so th
 
 | class | width | gutter | content max | alignment | columns · gap |
 |---|---|---|---|---|---|
-| car FULL (new) | ≥ 1400 | 72 | 1200 | left-anchored: column ends at x = 1272; the right 408 dp is sky with nothing interactive | 12 · 24 |
-| car EXPANDED | 1100–1399 | 48 | fill | left | 12 · 20 |
+| car FULL (2.11) | ≥ 1400 | 72 | fill | left-anchored rail, gutter to gutter; at any height but SHORT it splits into the page column and the 지금 column (392 × the font scale, held to 1–1.3×) a section gap apart, while page ÷ font scale ≥ 780 dp (`carColumns`): 1112 · 32 · 392 at 1680, 832 · 32 · 392 at 1400 | 12 · 24 |
+| car EXPANDED (2.11) | 1100–1399 | 48 | fill | left; splits like FULL from 1296 at 1× (page 780, gap 28); the full window at 1.3× is EXPANDED and gives 1046 · 28 · 510; 1100–1295, 1.5× (page 1046 if split, 697 effective) and SHORT keep one rail | 12 · 20 |
 | car MEDIUM | 760–1099 | 32 | fill | left | 8 · 16 |
 | car COMPACT | < 760 | 20 | fill | left | 4 · 12 |
 | phone EXPANDED (tablet) | ≥ 840 | 48 | 760 | centred | 4 cards · 16 |
 | phone MEDIUM (landscape) | 600–839 | 32 | 600 | centred | 2 · 12 |
 | phone COMPACT | < 600 | 20 | fill | — | 2 × 2 · 12 |
 
-- **Car home.** Header 64 inside the column. `DriverConfirmRow` folds into the hero as one line + two 56-dp chips until answered. Hero column 720: clock row → eyebrow → one headline (displaySmall 44, `scaledDisplay`) → one supporting line → search 640 × 68; hero 420–600 tall, min-only at 1.3×. Cards 3 × 368 × 184, gap 24; widgets 2 × 588 (min 150); 다음 예약 becomes the 오늘 운행 widget's third line (no band); incident row = one panel, four 72-dp buttons; "휴대폰에도 공유" moves to 차량. MEDIUM: 96-dp horizontal cards, widgets stack. Short: hero min 300, eyebrow hidden, clock into the header, widgets one 120-dp row with a 44-dp ring. 1.3×: cards 3-across at FULL, 2 + 1 below.
-- **Car 운행기록.** Month stepper + totals + 3-way `Segmented` (max 720) on one 64-dp row; list 560 / detail 616, gap 24; rows 88. MEDIUM and below: full-width list, detail as an 85 %-wide side sheet. Short: rows 64, filters collapse to one 56-dp dropdown chip.
-- **Car 월간·Excel.** The 운행기록 period stepper (64-dp glass arrows around a headlineSmall label that is a heading and a polite live region) and a 월간/연간 segmented: one 64-dp row from EXPANDED up (segmented 320 wide), two rows below (stepper, then the segmented 480 wide); Excel 저장 at the column's right. One shown period drives the close card, the four views, the preview and every Excel save; the pane opens on the month the home's close card points at; month-close card max 760; sheet tabs 56-dp text tabs; preview table scrolls horizontally with a pinned first column; sticky 72-dp save bar inside the column, max 760.
-- **Car 차량.** Car card 720 (drawing 420 tall) + info column 456; below, 2 × 588. MEDIUM: one column, drawing 260; short: drawing hidden, plate and odometer kept.
-- **Car 설정.** Sub-tabs 56-dp text tabs, max 960; forms max 720, left-anchored; two field columns at ≥ EXPANDED, else one (always one at 1.3×); 화면 분위기 first.
+- **Car home (2.11).** The header spans the rail over both columns; its driver chip and the question row under it appear only without the 지금 column. Page column (1112 at FULL): hero column 720: clock row → eyebrow → one headline (displaySmall 44, `scaledDisplay`) → one supporting line → search 640 × 68; hero 420–600 tall, min-only at 1.3×; cards 3 × 349 × 184 across the page, gap 24; then the matched banner, the month-close banner, the task stack, the autopilot strip and the incident row (one panel, four 72-dp buttons). 지금 column (392; 510 at 1.3×): outside the page swap, so it never slides and has no stagger; its own scroll under the faded top edge; read after the page; tiles 16 apart, corner 24, padding 22, on the home glass: 지금 운전 (avatar 64, name over department, 바꾸기, status line; today's question with 네 · 다른 직원 while it is due, folding away in 200 ms) → 예약 (in use or the next within 24 h; tap → 차량) → 오늘 운행 (km in place while recording; 완료 운행 · 등록 경비 · 계기판) → 이달 운행일지 (word, detail, auto line, 88-dp ring; tap → 월간·Excel). With the column the next-booking line and the widgets leave the page. Without it (EXPANDED under 1296 at 1×, MEDIUM, COMPACT, SHORT): the question row under the header (avatar 40, 네 · 다른 직원), the next-booking line under the hero, widgets 2-up from EXPANDED (min 150). MEDIUM: 96-dp horizontal cards, widgets stack. Short: hero min 300, eyebrow hidden, clock into the header, widgets one 120-dp row with a 44-dp ring. 1.3×: cards 2 + 1 (the full window is EXPANDED there, page 1046).
+- **Car 운행기록 (2.11).** Month stepper + totals + 3-way `Segmented` (max 720) on one 64-dp row; the list beside the detail only while the page column ÷ font scale ≥ 900 dp (`logListWidth`): list = (page − gap) × .48, 522 / 566 at FULL, gap 24; rows 88. Otherwise (MEDIUM and below, 1.3×, a 1400-dp window): full-width list, detail as a side sheet (as built: 62 % wide, 94 % at COMPACT). Short: rows 64, filters collapse to one 56-dp dropdown chip.
+- **Car 월간·Excel (2.11).** The 운행기록 period stepper (64-dp glass arrows around a headlineSmall label that is a heading and a polite live region) and a 월간/연간 segmented: one 64-dp row from EXPANDED up (segmented 320 wide), two rows below (stepper, then the segmented 480 wide); Excel 저장 at the column's right. One shown period drives the close card, the four views, the preview and every Excel save; the pane opens on the month the home's close card points at; the month-close card, the sheet tabs (56-dp text tabs), the preview and the sticky 72-dp save bar fill the page column (were max 760), the card's sentences keeping to the reading measure; preview table scrolls horizontally with a pinned first column; 검토 sets 증빙 준비 상태 beside 비용 참고 from EXPANDED up.
+- **Car 차량 (2.11).** Car card beside the info column at 720 : 456 of the page (666 + 422 at FULL, drawing 420 tall); below, 2 × 544; two columns only while page ÷ font scale ≥ 1000 dp (`vehiclePaneLayout`). Otherwise (MEDIUM and below, 1.3×, a 1400-dp window): one column, drawing 260; short: drawing hidden, plate and odometer kept.
+- **Car 설정 (2.11).** Sub-tabs 법인·차량 · 직원 · 정산·세무 · 기록 as 56-dp text tabs, max 960; the shell keeps the section, so 설정에서 입력 lands on 정산·세무, 직원 추가·관리 on 직원, and the header tab returns to the last one. From EXPANDED, while page ÷ font scale ≥ 760 dp (`settingsCardColumns`; still two at 1.3×), cards sit two up (2 × 544 at FULL), each with one field column: the profile beside 차량 관리 기한; 정산·세무 beside this month's settlement at the saved rate; 화면 분위기 + 기록 방식·개인정보 beside 자동 완성 + 운행 비서 + SDK; 직원 takes the page, its list beside the editor from 960 dp and the editor under the list below that. Otherwise forms max 720, left-anchored; two field columns at ≥ EXPANDED, else one (always one at 1.3×). 화면 분위기 first.
 - **Phone home.** Header 56; eyebrow, headlineMedium 24, one line; cards 2 × 2 (min 84), gap 12; one widget row (today km | month ring 52); task card only when a task exists; four 48-dp incident chips; the "차량이 원본이에요" paragraph and the empty "지금 할 일이 없어요" band move to 설정 › 차량 연결. Nav pill 72 + 10 margins, bottom padding 96. Landscape: 40/60 split — hero left, cards + widget right, nav an 80-dp left glass rail. Tablet: cards 4-across. 1.3×: one card per row.
 - **Phone 예약.** The timeline card is the single hero; 48-dp date chips scroll; 새 예약 opens as a 92 % bottom sheet (a 50/50 right pane at ≥ 600) from a free slot or a 56-dp 예약하기 button above the pill; steppers 56, ± 48.
 - **Phone 운행 / 경비 / 현황.** Employee chips 48 (`FlowRow` at 1.3×); each day group one glass panel with 1-dp dividers, rows ≥ 72; 현황 ≤ three cards above the fold, two columns at ≥ 600. Landscape and tablet: list 55 % / detail 45 % instead of a route push.
@@ -77,7 +77,7 @@ Easings: FastOutSlowIn (standard), LinearOutSlowIn (enter), FastOutLinearIn (exi
 | interaction | what moves | ms | easing | reduced-motion | note |
 |---|---|---|---|---|---|
 | Press | scale 1 → .98 car / .97 phone; fill white +6 % (night) / navy 6 % (day) | 90 in / 160 out | LinearOutSlowIn / FastOutSlowIn | fill only | `pressable`; car no ripple, phone bounded M3 ripple |
-| Tab change | lit pill glides (x + width) and tints; page `pageSwap` 24 dp slide + fade | 220 (exit 140, enter delay 40) | FastOutSlowIn | snap | header, nav, sky static |
+| Tab change | lit pill glides (x + width) and tints; page `pageSwap` 24 dp slide + fade | 220 (exit 140, enter delay 40) | FastOutSlowIn | snap | header, nav, sky and the 지금 column static (2.11) |
 | Segmented · filter · 자동/낮/밤 | pill slides; fill + ring | 180 | FastOutSlowIn | snap | `Segmented` |
 | First appearance | `Appear` fade + 10 % lift, stagger 40 | 220; cap 5 items car / 8 phone | FastOutSlowIn | in place | first composition only; never on return or sync |
 | Number update | old and new digits cross-fade + 6 dp lift | 160 | FastOutSlowIn | snap | no count-up (a number is data); widgets, ring label, detail only; never clock or live telemetry |
@@ -103,4 +103,4 @@ Existing `cardSwap`, `SkyLayer` dim, skeleton pulse and `ThinkingDots` stay as b
 6. **Screens**, in order: car home → car panes → phone home → phone tabs → sign-in / onboarding / settings → `VehiclePane` car card off `SharemateTheme(dark = true)` (#0E1522, #1E2C47, #E4BFA6, #C7C9CE → scene tokens) → sweep the 24 remaining literals (card sheens `Color.White.copy(.07)` in `HomeDashboard` / `PhoneMidnight` / `PhoneAuthUi` → `edgeTop`; `PhoneSyncUi.connectedGreen` → positive; `SharemateUi` #DAAF6B / #FFCC80 → warn; `PhoneAuthUi` tile → tile; the Google button's whites stay, brand-mandated).
 7. **Verification.** Day and night screenshots for the README (car home, 운행기록, 월간, 차량, 설정; phone home, 예약, sign-in); 1.3× previews for car home, 운행기록 and phone home; 900-wide and short-window car previews; `set-timezone` on the emulator for the band edges.
 
-**Pitfalls (engineering judge).** HEAD's `SceneTheme` rebuilds `SceneColors`, `ColorScheme` and `PleosColors` every frame for 900 ms and lerps text (1.16 mid-frame): remove it, do not tune it. Without `configChanges="uiMode"` a headlight toggle recreates `MainActivity` and wipes the hysteresis. `animateBounds` only works when the same keyed composable survives the breakpoint flip — one composable per card, layout chosen inside. `pageStates` must survive rotation once the activity stops recreating. Hero clamp min-only at 1.3× or the headline clips. Tabs stay 56 dp inside the 68-dp pill (short header: pill padding 4). The skyline `drawWithCache` never reads the clock. Glass alpha below .88 on day voids the composite ratios. `ScenePrefs` stays out of the synced logbook. The right 408 dp at FULL holds nothing interactive.
+**Pitfalls (engineering judge).** HEAD's `SceneTheme` rebuilds `SceneColors`, `ColorScheme` and `PleosColors` every frame for 900 ms and lerps text (1.16 mid-frame): remove it, do not tune it. Without `configChanges="uiMode"` a headlight toggle recreates `MainActivity` and wipes the hysteresis. `animateBounds` only works when the same keyed composable survives the breakpoint flip — one composable per card, layout chosen inside. `pageStates` must survive rotation once the activity stops recreating. Hero clamp min-only at 1.3× or the headline clips. Tabs stay 56 dp inside the 68-dp pill (short header: pill padding 4). The skyline `drawWithCache` never reads the clock. Glass alpha below .88 on day voids the composite ratios. `ScenePrefs` stays out of the synced logbook. (2.11) The right of the FULL rail is the 지금 column: keep it outside the page swap so it never slides; build the hero band from sizes, never positions, then add the page slot's resting root origin to it and let the sky take off its own (the sky sits inside `safeDrawingPadding`), or the sun moves with the entrance lift or a page change; the sun or moon rests only in that band, never under a card.

diff --git a/README.md b/README.md
@@ -10,7 +10,7 @@ SHAREMATE는 법인 차량을 쓰는 회사의 운전자와 관리자를 위한 
 
 | 차량: 밤에서 낮으로, 그리고 다시 밤으로 | 휴대폰: 로그인 · 처음 설정 · 예약 · 차량 선택 |
 |---|---|
-| <img src="docs/demo/car-day-night.gif" alt="차량 앱 시연: 밤 화면 홈에서 월간·Excel로 가 지난 달인 10월로 넘기고, 설정에서 낮을 고르면 야경이 아침 하늘로 바뀌고, 다시 밤으로 돌아오는 장면" width="560"> | <img src="docs/demo/phone-booking.gif" alt="휴대폰 앱 시연: 시연 계정으로 로그인, 세 단계 처음 설정, 예약 탭에서 빈 시간을 눌러 예약 신청, 차량 칩으로 회사 차량 목록 열기" width="200"> |
+| <img src="docs/demo/car-day-night.gif" alt="차량 앱 시연: 밤 화면 홈에서 오늘의 운전자 질문에 네를 누르고, 바꾸기로 Lee Minho 님을 골랐다가 아래 막대의 실행 취소로 되돌린 뒤, 월간·Excel에서 2026년 10월로 넘기고, 설정 › 기록에서 낮을 고르면 하늘이 아침으로 바뀌고, 낮 홈을 거쳐 다시 밤으로 돌아오는 장면" width="560"> | <img src="docs/demo/phone-booking.gif" alt="휴대폰 앱 시연: 시연 계정으로 로그인, 세 단계 처음 설정, 예약 탭에서 빈 시간을 눌러 예약 신청, 차량 칩으로 회사 차량 목록 열기" width="200"> |
 
 같은 화면이 시간에 따라 두 가지 빛으로 보입니다. 낮에는 밝은 하늘과 흰 유리, 해 질 무렵과 밤에는 남색 야경입니다. 설정에서 자동 · 낮 · 밤을 고를 수 있습니다.
 
@@ -18,11 +18,13 @@ SHAREMATE는 법인 차량을 쓰는 회사의 운전자와 관리자를 위한 
 
 | 홈 · 낮 | 홈 · 밤 |
 |---|---|
-| <img src="docs/screenshots/car-home.jpg" alt="차량 홈(낮): 아침 인사말과 운행 비서 검색창, 차량 정보·운행일지 확인·정보 내보내기 세 버튼, 정기검사 기한 카드, 내용 오른쪽 빈 하늘의 해와 구름" width="560"> | <img src="docs/screenshots/car-home-night.jpg" alt="차량 홈(밤): 같은 구성의 남색 야경과 오른쪽 하늘의 달" width="560"> |
-| **차량** | **운행기록** |
-| <img src="docs/screenshots/car-vehicle.jpg" alt="차량: 차량 카드, 차량 정보, 차량 관리 기한, 다가오는 예약, 사고·특이사항 기록" width="560"> | <img src="docs/screenshots/car-log.jpg" alt="운행기록: 월 이동, 전체·점검 필요·자동 반영 구분, 운행 목록과 운행 상세" width="560"> |
-| **월간·Excel** | **설정** |
-| <img src="docs/screenshots/car-report.jpg" alt="월간·Excel: 기간 이동으로 넘긴 2026년 10월, 마감된 달의 운행·총주행·경비와 마감 해제·Excel 저장, 그 달의 운행기록부 시트 미리보기" width="560"> | <img src="docs/screenshots/car-settings.jpg" alt="설정 › 기록: 화면 분위기(자동·낮·밤), 기록 방식과 개인정보" width="560"> |
+| <img src="docs/screenshots/car-home.jpg" alt="차량 홈(낮): 아침 인사말, 운행 비서 검색창, 차량 정보·운행일지 확인·정보 내보내기 세 카드와 정기검사 기한 카드, 인사말 오른쪽 하늘의 해와 구름, 오른쪽 지금 열의 지금 운전·예약·오늘 운행·이달 운행일지" width="560"> | <img src="docs/screenshots/car-home-night.jpg" alt="차량 홈(밤): 같은 구성의 남색 야경, 인사말 오른쪽 하늘의 달, 지금 운전 카드의 ‘오늘도 Kim Jiwoo 님이 운전하나요?’ 질문과 네·다른 직원 버튼" width="560"> |
+| **운전자 바꾸기** | **설정 › 직원** |
+| <img src="docs/screenshots/car-driver-picker.jpg" alt="운전자 바꾸기: 낮 홈 위에 열린 ‘지금 운전하는 직원’ 창, 이니셜 아바타·부서·마지막 운행을 보여 주는 직원 카드 두 장, 채움·테두리·✓로 표시된 Kim Jiwoo 카드, 직원 추가·관리와 닫기 버튼" width="560"> | <img src="docs/screenshots/car-drivers.jpg" alt="설정 › 직원: 아바타와 부서·운행 건수·마지막 운행, ‘지금 운전’ 칩이 붙은 직원 목록, 새 직원 버튼과 출발 전 운전자 확인 스위치, 목록 옆에 열린 Lee Minho 님의 수정 칸(지금 운전하는 직원으로, 부서·성명, 수정 저장·취소, 직원 삭제)" width="560"> |
+| **운행기록** | **월간·Excel** |
+| <img src="docs/screenshots/car-log.jpg" alt="운행기록: 2026년 10월로 넘긴 월 이동, 전체·점검 필요·자동 반영 구분과 합계, 날짜별 운행 목록 옆에 열린 운행 상세(계기판 거리, 출발·도착, 목적, ④ 사용자, 비용), 그 오른쪽의 지금 열" width="560"> | <img src="docs/screenshots/car-report.jpg" alt="월간·Excel: 기간 이동으로 넘긴 2026년 10월, 페이지 폭을 채운 마감 카드(운행·총주행·경비, 마감 해제·Excel 저장)와 그 달의 운행기록부 시트 미리보기, 오른쪽 지금 열" width="560"> |
+| **차량** | **설정** |
+| <img src="docs/screenshots/car-vehicle.jpg" alt="차량: 차량 카드와 차량 정보(지금 운전, 배터리, 수신 상태, 최근 완료 운행), 그 아래 두 열의 차량 관리·정비 기록, 휴대폰 연결, 차량 예약, 사고·특이사항 기록, 오른쪽 지금 열" width="560"> | <img src="docs/screenshots/car-settings.jpg" alt="설정 › 기록: 두 열로 놓인 카드, 왼쪽에 화면 분위기(자동·낮·밤)와 기록 방식·개인정보, 오른쪽에 자동 완성·운행 비서·Pleos SDK, 그 옆의 지금 열" width="560"> |
 
 ### 휴대폰
 
@@ -49,6 +51,7 @@ SHAREMATE는 법인 차량을 쓰는 회사의 운전자와 관리자를 위한 
 차량이 원본입니다. 기록은 차량 안에 저장되고, 운전자는 정차한 뒤 필요한 것만 확인합니다.
 
 - **자동 기록:** P에서 D·R·N으로 바꾸면 기록을 시작하고, 다시 P로 돌아오면 계기판 거리로 운행을 마칩니다.
+- **운전하는 직원:** 넓은 창에서는 오른쪽 지금 열 맨 위의 카드가, 좁은 창에서는 머리줄의 칩이 지금 누가 운전하는지 보여 줍니다. 직원이 두 명 이상이면 하루 한 번 ‘오늘도 … 님이 운전하나요?’라고 묻습니다. 네를 누르면 끝납니다. 다른 사람이 운전하면 ‘다른 직원’을 누르고 직원 카드 하나를 고릅니다. 평소에는 지금 운전 카드의 ‘바꾸기’나 머리줄의 칩으로 바꿉니다. 글자를 칠 필요는 없습니다. 잘못 골랐다면 바로 실행 취소할 수 있습니다. 직원은 설정 › 직원에서 추가하고 부서와 성명을 고칩니다. 운행 기록이 없는 직원만 삭제할 수 있어, 운행기록부의 ④ 사용자 칸이 비지 않습니다.
 - **목적·비용 한 번에:** 주차 후 출·퇴근 / 일반 업무 / 개인 중 하나를 누르면 되고, 같은 도착지를 같은 목적으로 세 번 이상 기록했다면 다음부터 자동으로 채운 뒤 표시합니다.
 - **카드 결제 자동 반영:** 휴대폰의 카드 승인 알림과 카드 명세서를 차량이 감지한 충전·주유·톨게이트·주차와 맞춰 비용을 붙이고, 애매한 건만 한 번 묻습니다. 자동 반영은 모두 되돌릴 수 있습니다.
 - **월 마감과 Excel:** 목적·사용자·카드 확인이 끝나면 그 달을 마감하고, 운행기록부·직원별 현황·경비원장·차량관리·확인사항 5개 시트의 Excel을 저장합니다. 월간·Excel에서는 운행기록처럼 지난 달이나 지난 해로 넘겨 그 기간의 현황과 Excel을 보고, 다시 저장하거나 마감을 풀 수 있습니다.
@@ -56,7 +59,7 @@ SHAREMATE는 법인 차량을 쓰는 회사의 운전자와 관리자를 위한 
 - **사고·특이사항 원탭:** 홈의 버튼 한 번으로 시각·계기판·위치·운전자가 기록되고, 이어서 대처 단계를 보여 줍니다. 잘못 눌렀다면 바로 되돌릴 수 있습니다.
 - **운행 비서(로컬 규칙):** “주차비 4,500원 추가해줘”처럼 적으면 목적 기록·비용 추가·요약을 처리합니다. 차량 안의 한국어 문장 규칙으로 동작하며 네트워크를 쓰지 않습니다.
 - **낮·밤 화면:** 홈의 도시 장면이 시계에 맞춰 낮·해 질 무렵·밤으로 바뀌고, 모든 화면의 색이 함께 바뀝니다. 지하 주차장처럼 차량의 조도 센서가 어둡다고 알리면 자동 모드에서도 밤 화면을 씁니다. 설정에서 자동·낮·밤을 고를 수 있고, 주행 중에는 바뀌지 않습니다.
-- **여백과 움직임:** 화면을 가득 채우지 않고 왼쪽 한 열에 내용을 두어 오른쪽은 하늘로 남깁니다. 해와 달은 그 빈 하늘에 떠 있어 카드가 지나가도 가려지지 않고, 스크롤하면 내용이 머리줄 아래로 부드럽게 사라집니다. 카드와 탭은 누르면 살짝 가라앉고, 페이지는 옆으로 밀리며, 숫자는 바뀔 때 떠오릅니다. 시스템의 애니메이션 축소 설정을 따릅니다.
+- **여백과 움직임:** 넓은 창에서는 화면 폭을 끝까지 씁니다. 다섯 화면이 바뀌는 페이지 열 옆에 지금 열이 서서, 운전하는 직원과 예약, 오늘 운행, 이달 운행일지를 늘 보여 줍니다. 여백은 화면 가장자리와 두 열 사이에 두고, 인사말은 읽기 좋은 폭에서 줄을 바꿉니다. 해와 달은 인사말 오른쪽, 카드 위의 하늘에 뜹니다. 스크롤로 카드가 다가오면 해와 달이 먼저 사라집니다. 좁은 창에서는 지금 열과 해·달이 빠지고, 운전하는 직원은 머리줄에, 예약과 오늘·이달 위젯은 홈에 놓입니다. 페이지는 옆으로 밀리며 바뀌고, 머리줄과 지금 열은 그대로 있습니다. 스크롤하면 내용이 머리줄 아래로 부드럽게 사라집니다. 카드와 탭은 누르면 살짝 가라앉고, 숫자는 바뀔 때 떠오릅니다. 시스템의 애니메이션 축소 설정을 따릅니다.
 
 주행 중에는 거리와 기록 상태만 남기고 버튼·입력·시트를 모두 닫습니다(Pleos 주행 제한).
 
@@ -81,7 +84,7 @@ SHAREMATE는 법인 차량을 쓰는 회사의 운전자와 관리자를 위한 
 **하루의 운행**
 
 1. **출발:** 기어를 P에서 바꾸면 차량이 기록을 시작합니다. 따로 누를 것은 없습니다.
-2. **자동 기록:** 계기판 거리, 시각, 도착지 주소, 이용 직원이 운행에 남습니다.
+2. **자동 기록:** 계기판 거리, 시각, 도착지 주소, 운전한 직원이 운행에 남습니다.
 3. **주차 후 확인:** 정차하면 목적을 한 번 고릅니다. 이미 아는 목적지는 자동으로 채워집니다.
 4. **카드 자동 반영:** 주유·충전·통행료·주차 결제가 해당 운행에 붙습니다. 확실하지 않은 건만 묻습니다.
 5. **월 마감:** 남은 확인 건이 없으면 그 달을 마감합니다. 마감 뒤 고친 기록은 이력에 남습니다.
@@ -91,7 +94,7 @@ SHAREMATE는 법인 차량을 쓰는 회사의 운전자와 관리자를 위한 
 
 1. **예약 신청:** 휴대폰 예약 탭에서 시간·목적·목적지를 적어 보냅니다.
 2. **차량 확정:** 차량이 직원·시간·겹침을 다시 확인해 확정하고, 차량 홈에 ‘다음 예약’ 한 줄로 보여 줍니다.
-3. **운전자 자동 전환:** 예약 시작 15분 전부터 주차 중이면 이용 직원이 예약한 직원으로 바뀌고, 그 시간의 운행은 예약 목적으로 기록됩니다.
+3. **운전자 자동 전환:** 예약 시작 15분 전부터 차가 주차 중이면, 지금 운전하는 직원이 예약한 직원으로 한 번 바뀝니다. 그 뒤에 직접 고른 운전자는 그대로 남습니다. 예약한 직원이 그 시간에 시작한 운행은 예약 목적으로 기록됩니다.
 
 ---
 
